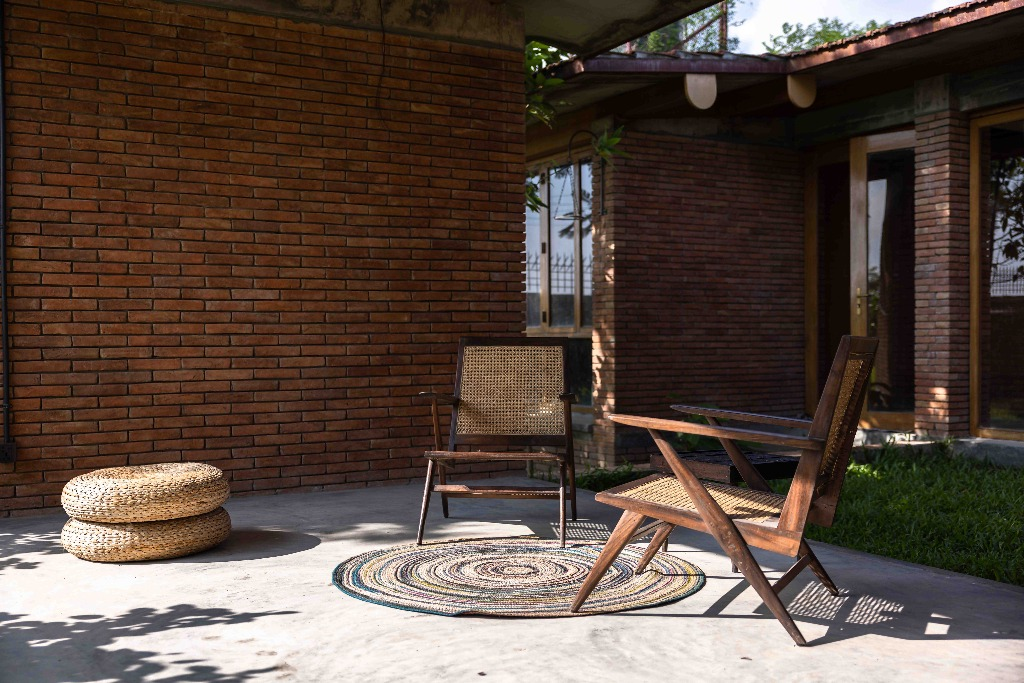
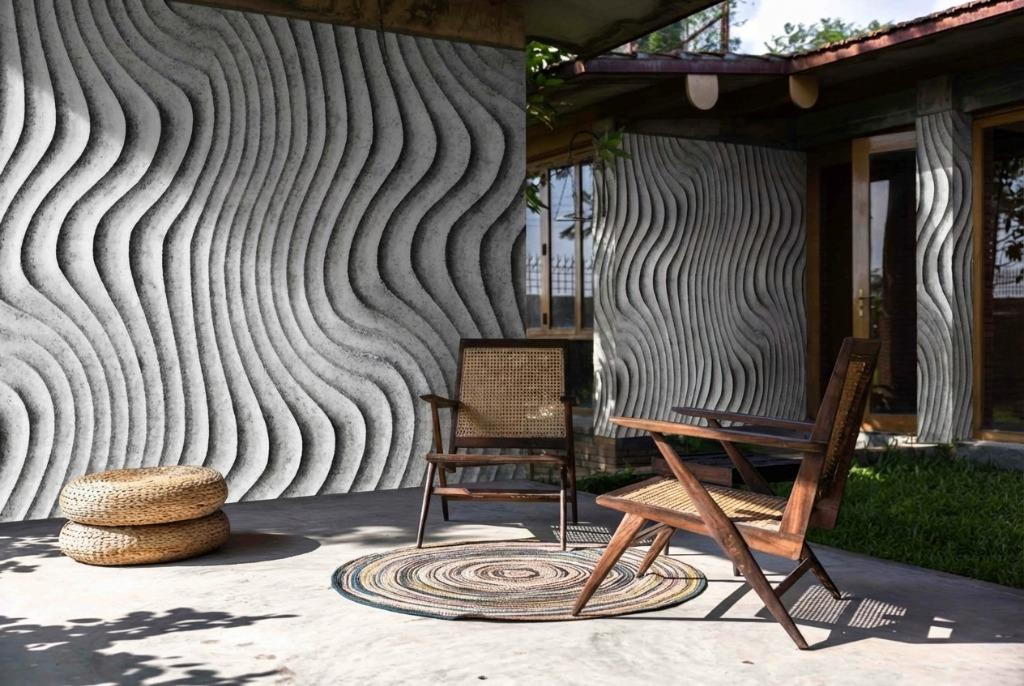
feat: update material swap template with user provided images and material config

diff --git a/components/TemplateGallery.tsx b/components/TemplateGallery.tsx
@@ -13,6 +13,7 @@ export interface Template {
     prompt: string;
     style: string;
     instructions: string;
+    materialImage?: string;
 }
 
 export const TEMPLATES: Template[] = [
@@ -68,6 +69,7 @@ export const TEMPLATES: Template[] = [
         category: 'Interior',
         baseImage: '/gallery/material-swap-base.jpg',
         outputImage: '/gallery/material-swap-output.jpg',
+        materialImage: '/gallery/material-swap-texture.jpg',
         prompt: 'Architectural visualization, material study. Change the specific material to [TARGET_MATERIAL]. Maintain lighting and geometry.',
         style: 'Realistic',
         instructions: 'Select a surface and choose a new material to apply. (Coming Soon)'

diff --git a/components/MaterialSwapWorkspace.tsx b/components/MaterialSwapWorkspace.tsx
@@ -11,7 +11,7 @@ interface MaterialSwapWorkspaceProps {
 
 export const MaterialSwapWorkspace: React.FC<MaterialSwapWorkspaceProps> = ({ template }) => {
     const [baseImage, setBaseImage] = useState<string | null>(template.baseImage);
-    const [materialImage, setMaterialImage] = useState<string | null>(null);
+    const [materialImage, setMaterialImage] = useState<string | null>(template.materialImage || null);
     const [prompt, setPrompt] = useState<string>('');
     const [isGenerating, setIsGenerating] = useState(false);
     const [generatedImage, setGeneratedImage] = useState<string | null>(null);
